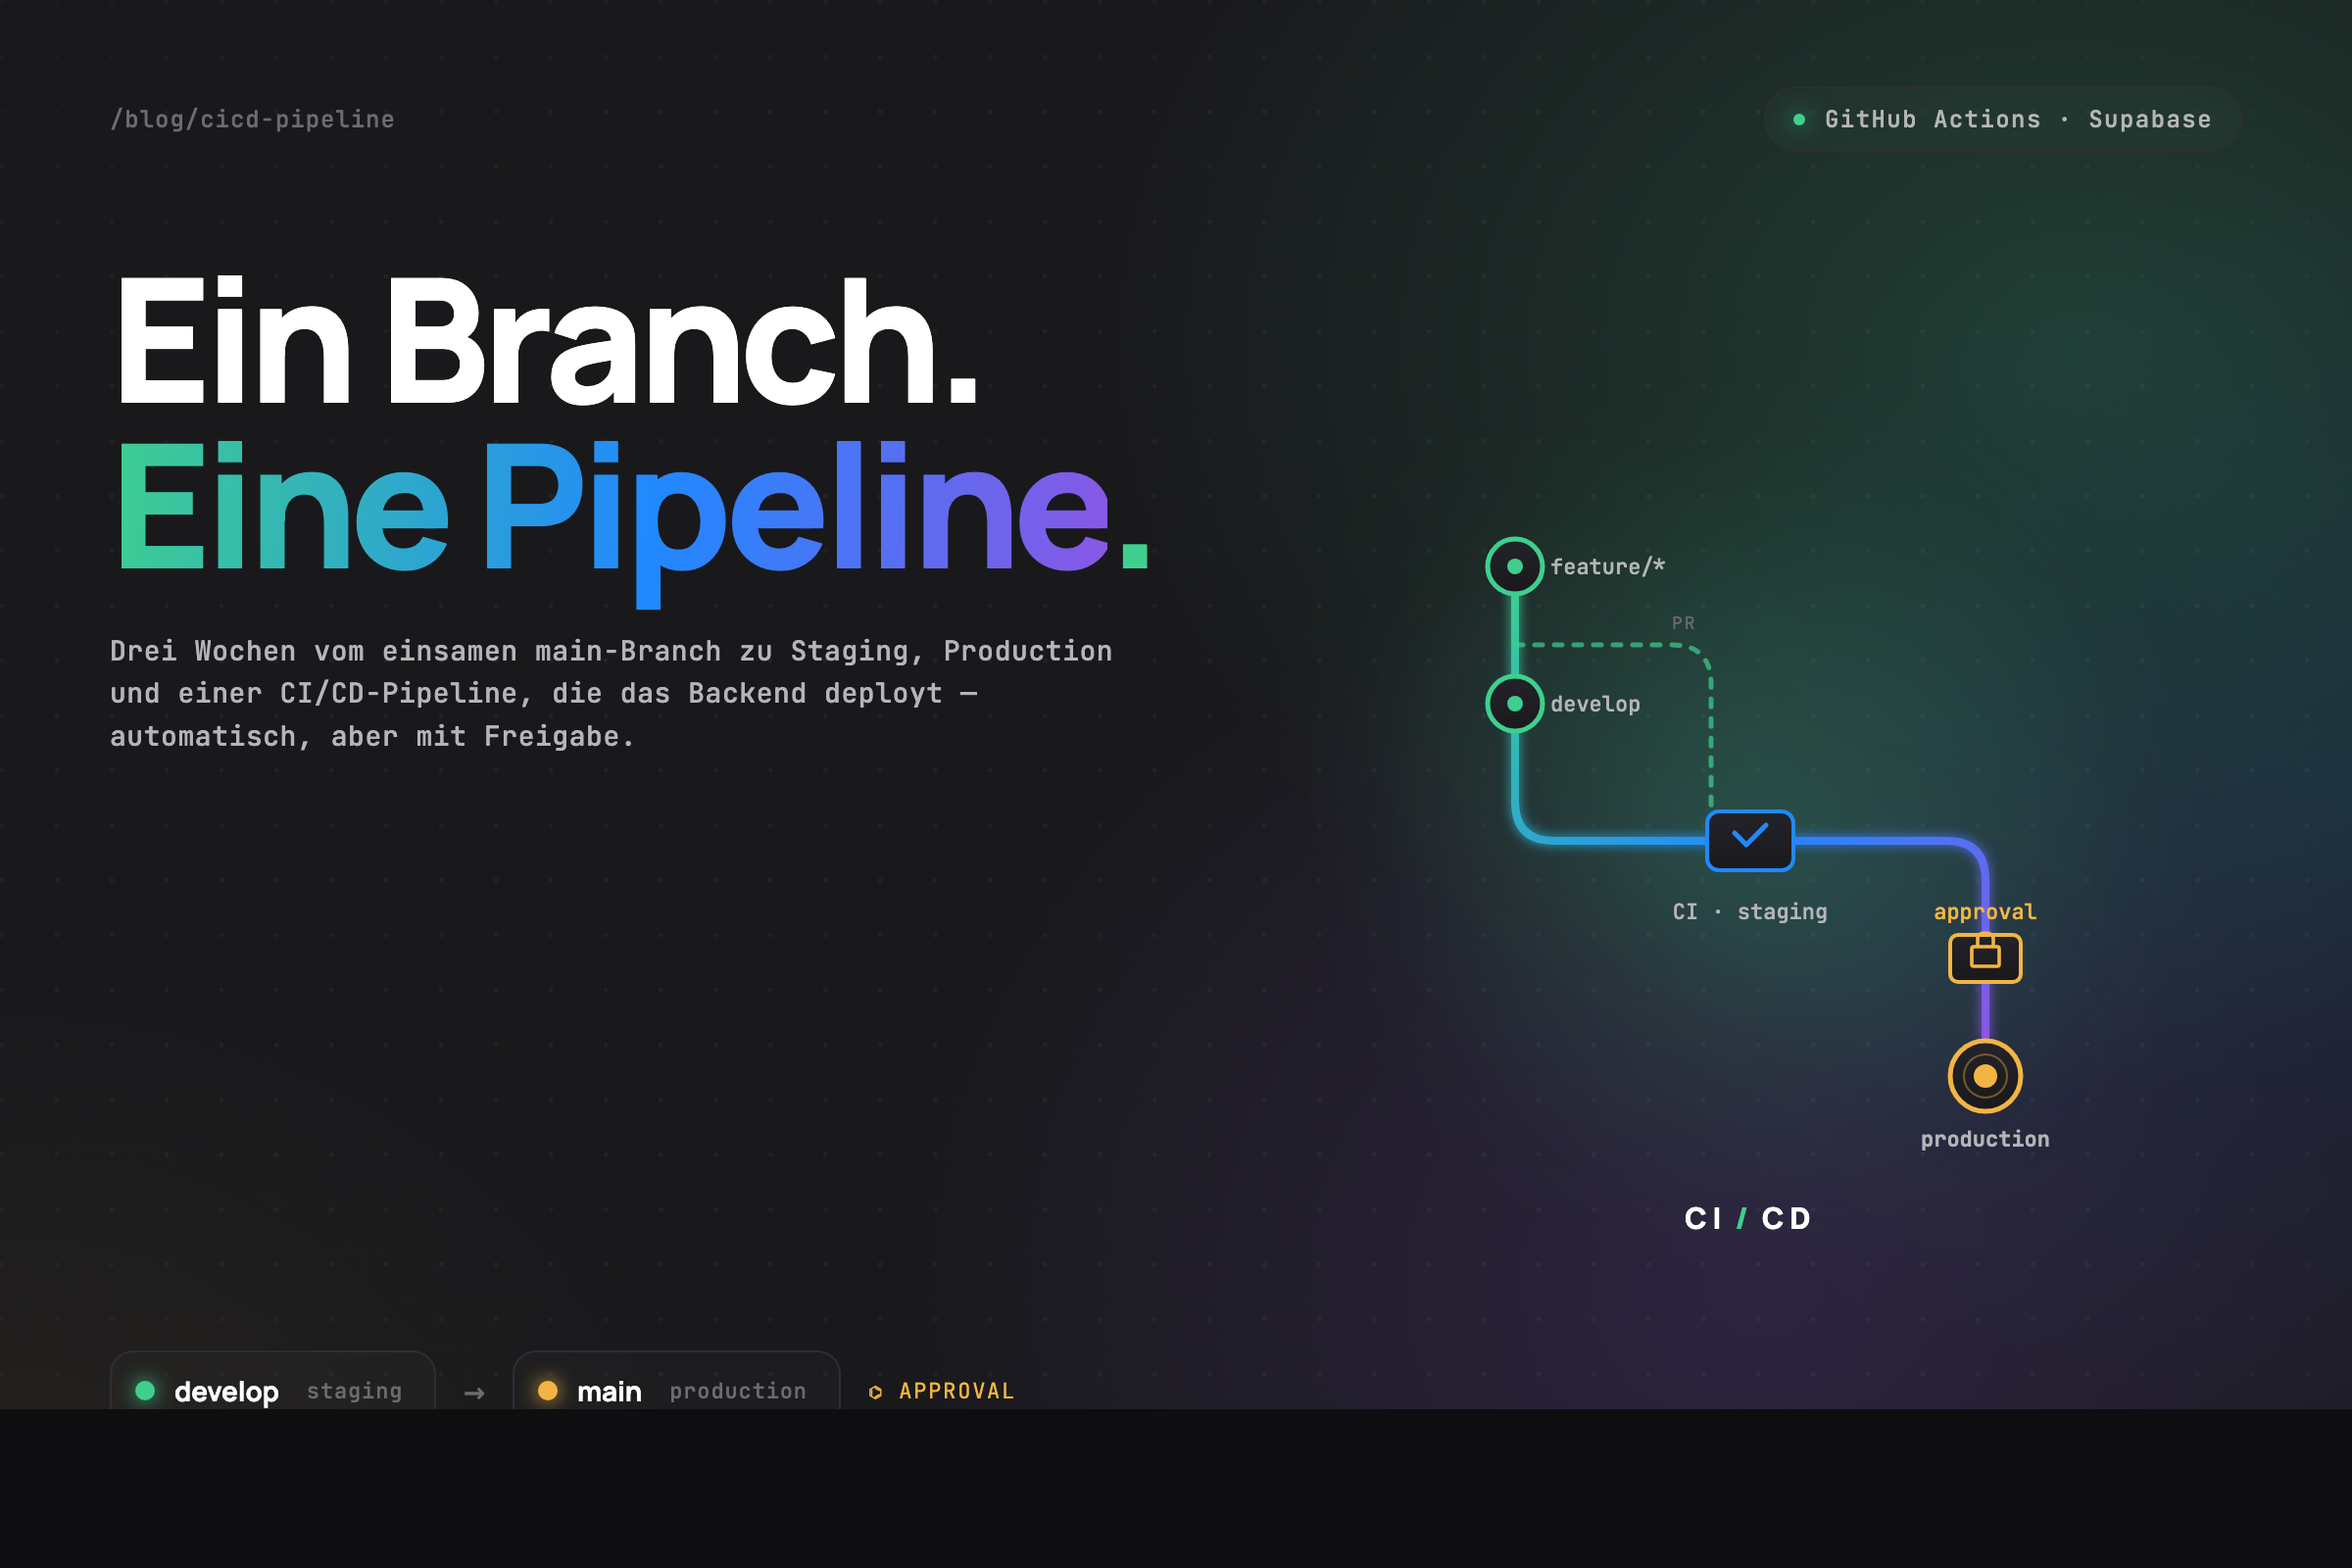
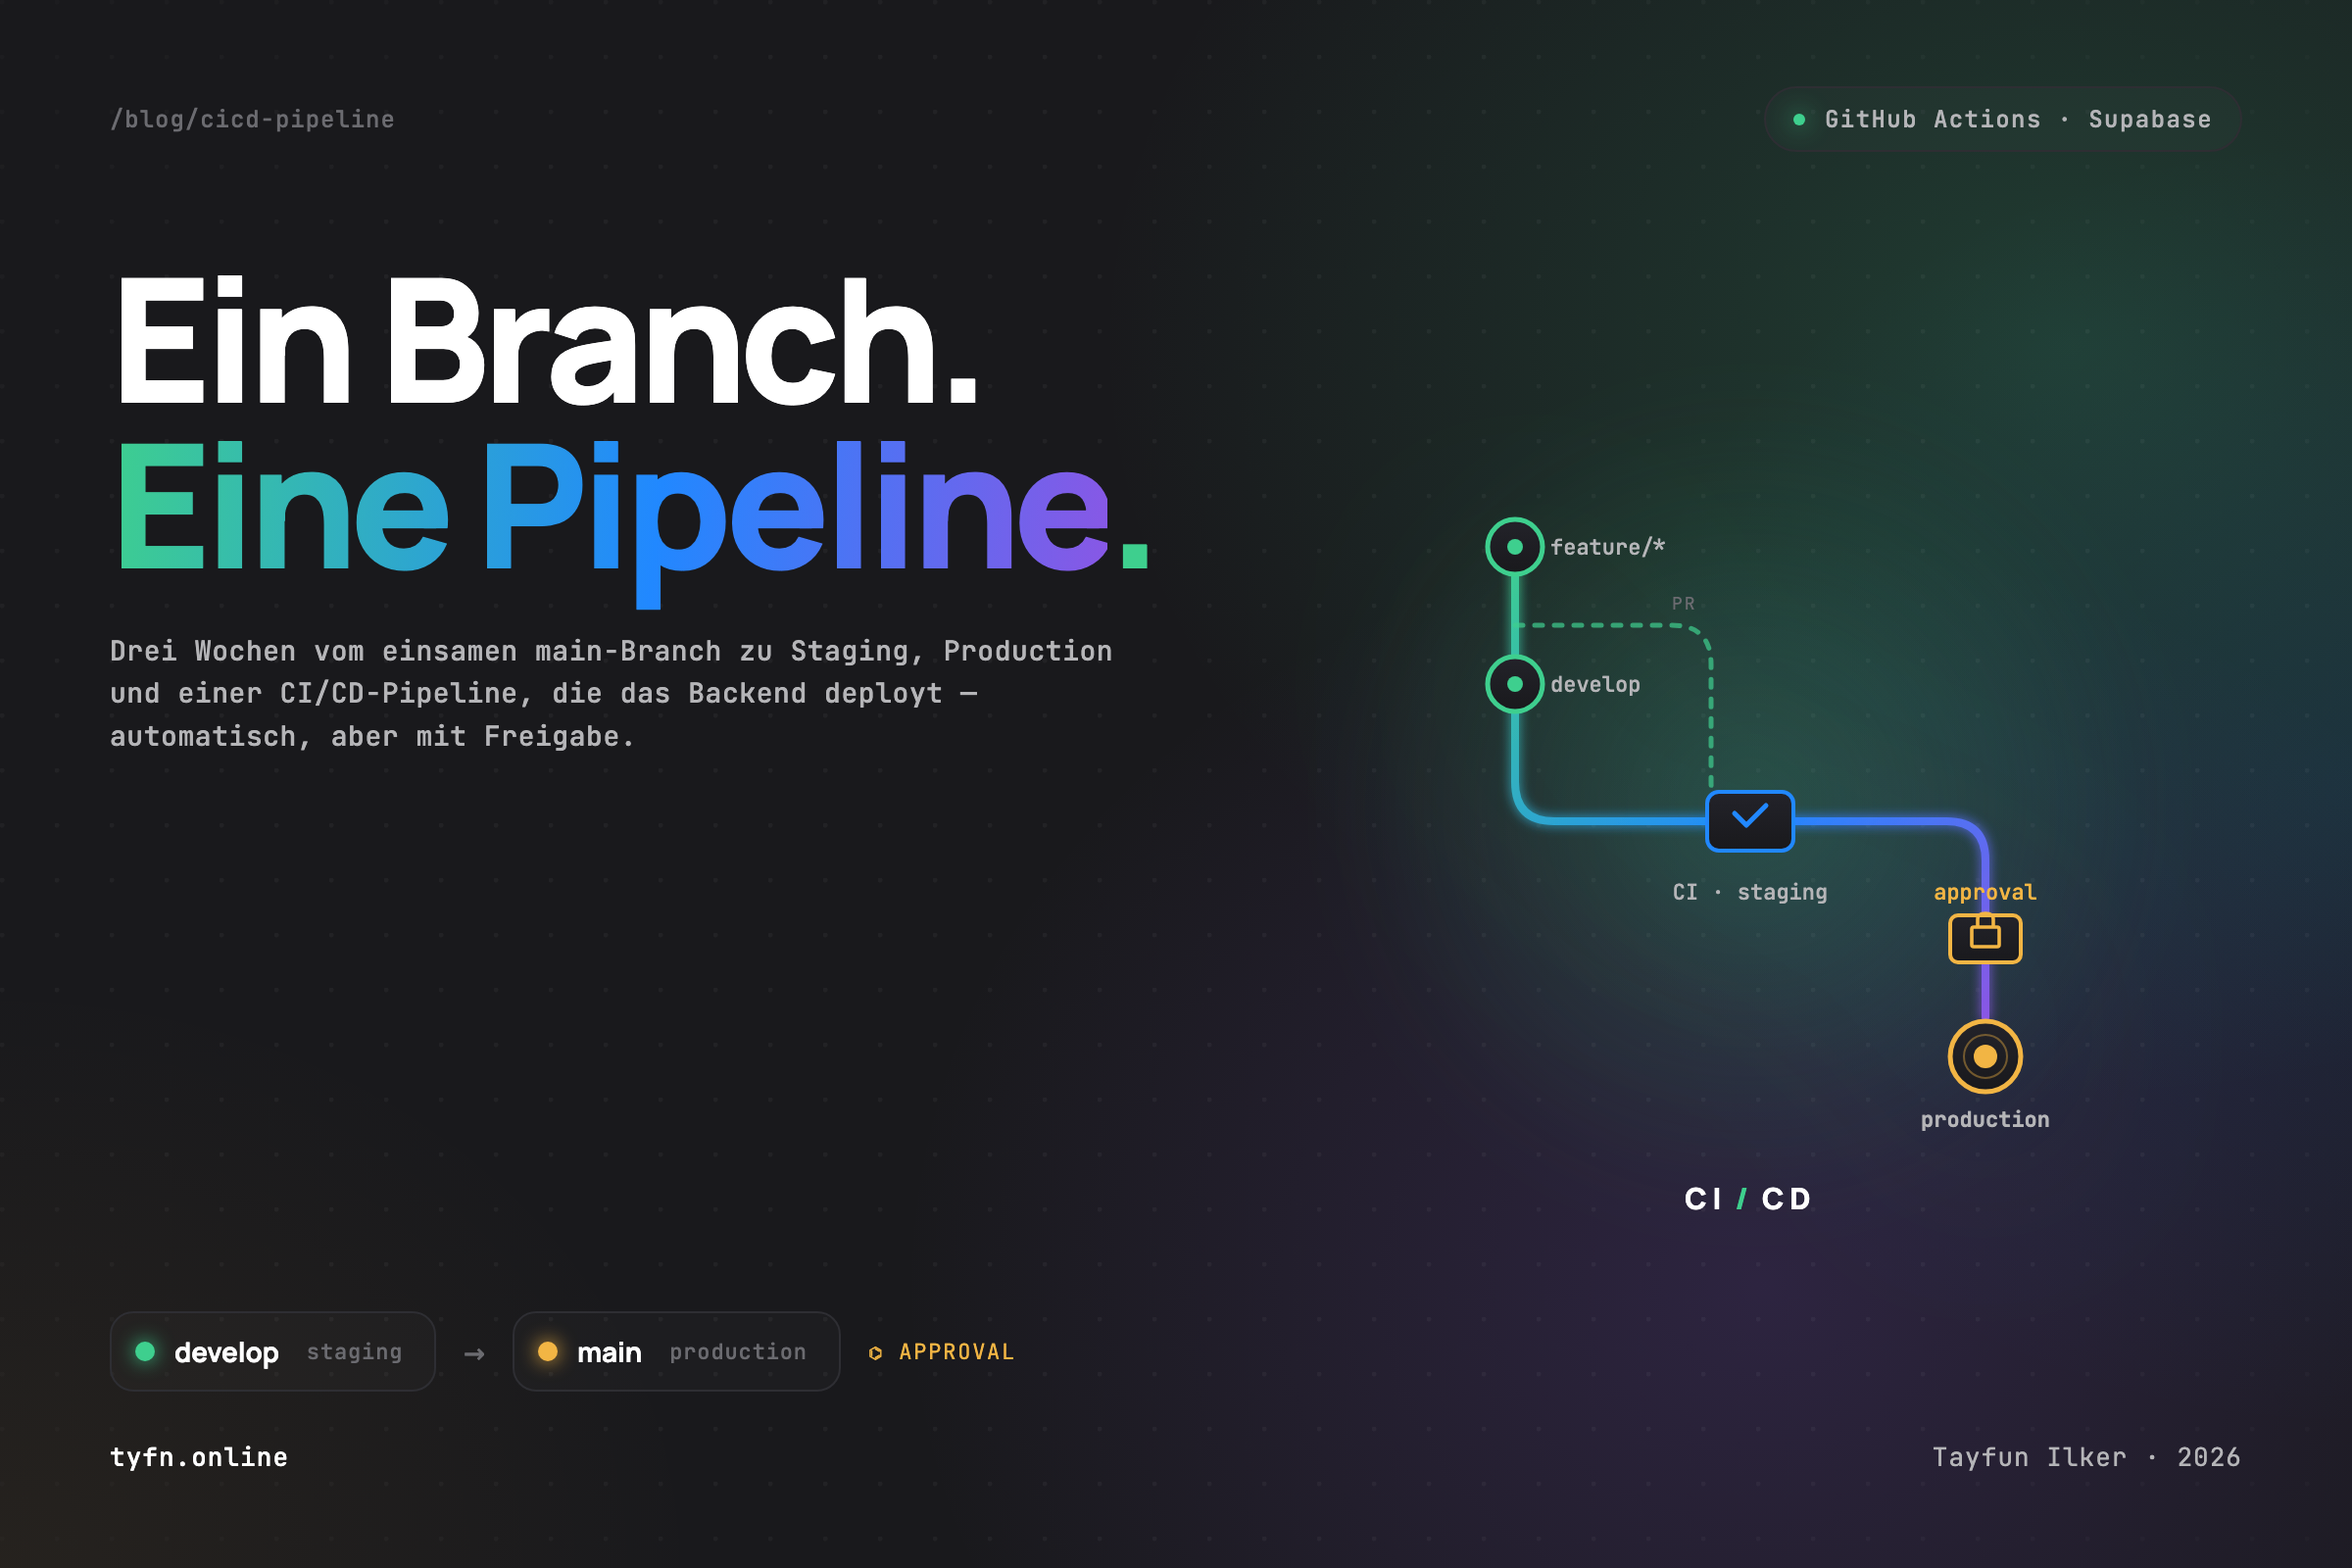
fix(blog): re-export cicd hero with footer fully visible

diff --git a/design/cicd-pipeline-hero.html b/design/cicd-pipeline-hero.html
@@ -115,7 +115,7 @@
       top: 130px;
       left: 56px;
       right: 56px;
-      bottom: 70px;
+      bottom: 90px;
       display: grid;
       grid-template-columns: 1.05fr 0.95fr;
       gap: 32px;
@@ -257,17 +257,17 @@
     /* ============== BOTTOM ============== */
     .bottom {
       position: absolute;
-      bottom: 36px; left: 56px; right: 56px;
+      bottom: 48px; left: 56px; right: 56px;
       display: flex;
       justify-content: space-between;
       align-items: center;
       font-family: var(--mono);
-      font-size: 11px;
+      font-size: 13px;
       letter-spacing: 0.04em;
-      color: var(--ink-faint);
+      color: var(--ink-dim);
       z-index: 5;
     }
-    .bottom .left { color: var(--ink-dim); }
+    .bottom .left { color: var(--ink); font-weight: 500; }
     .bottom .left .slash { color: var(--sb-green); }
   </style>
 </head>
